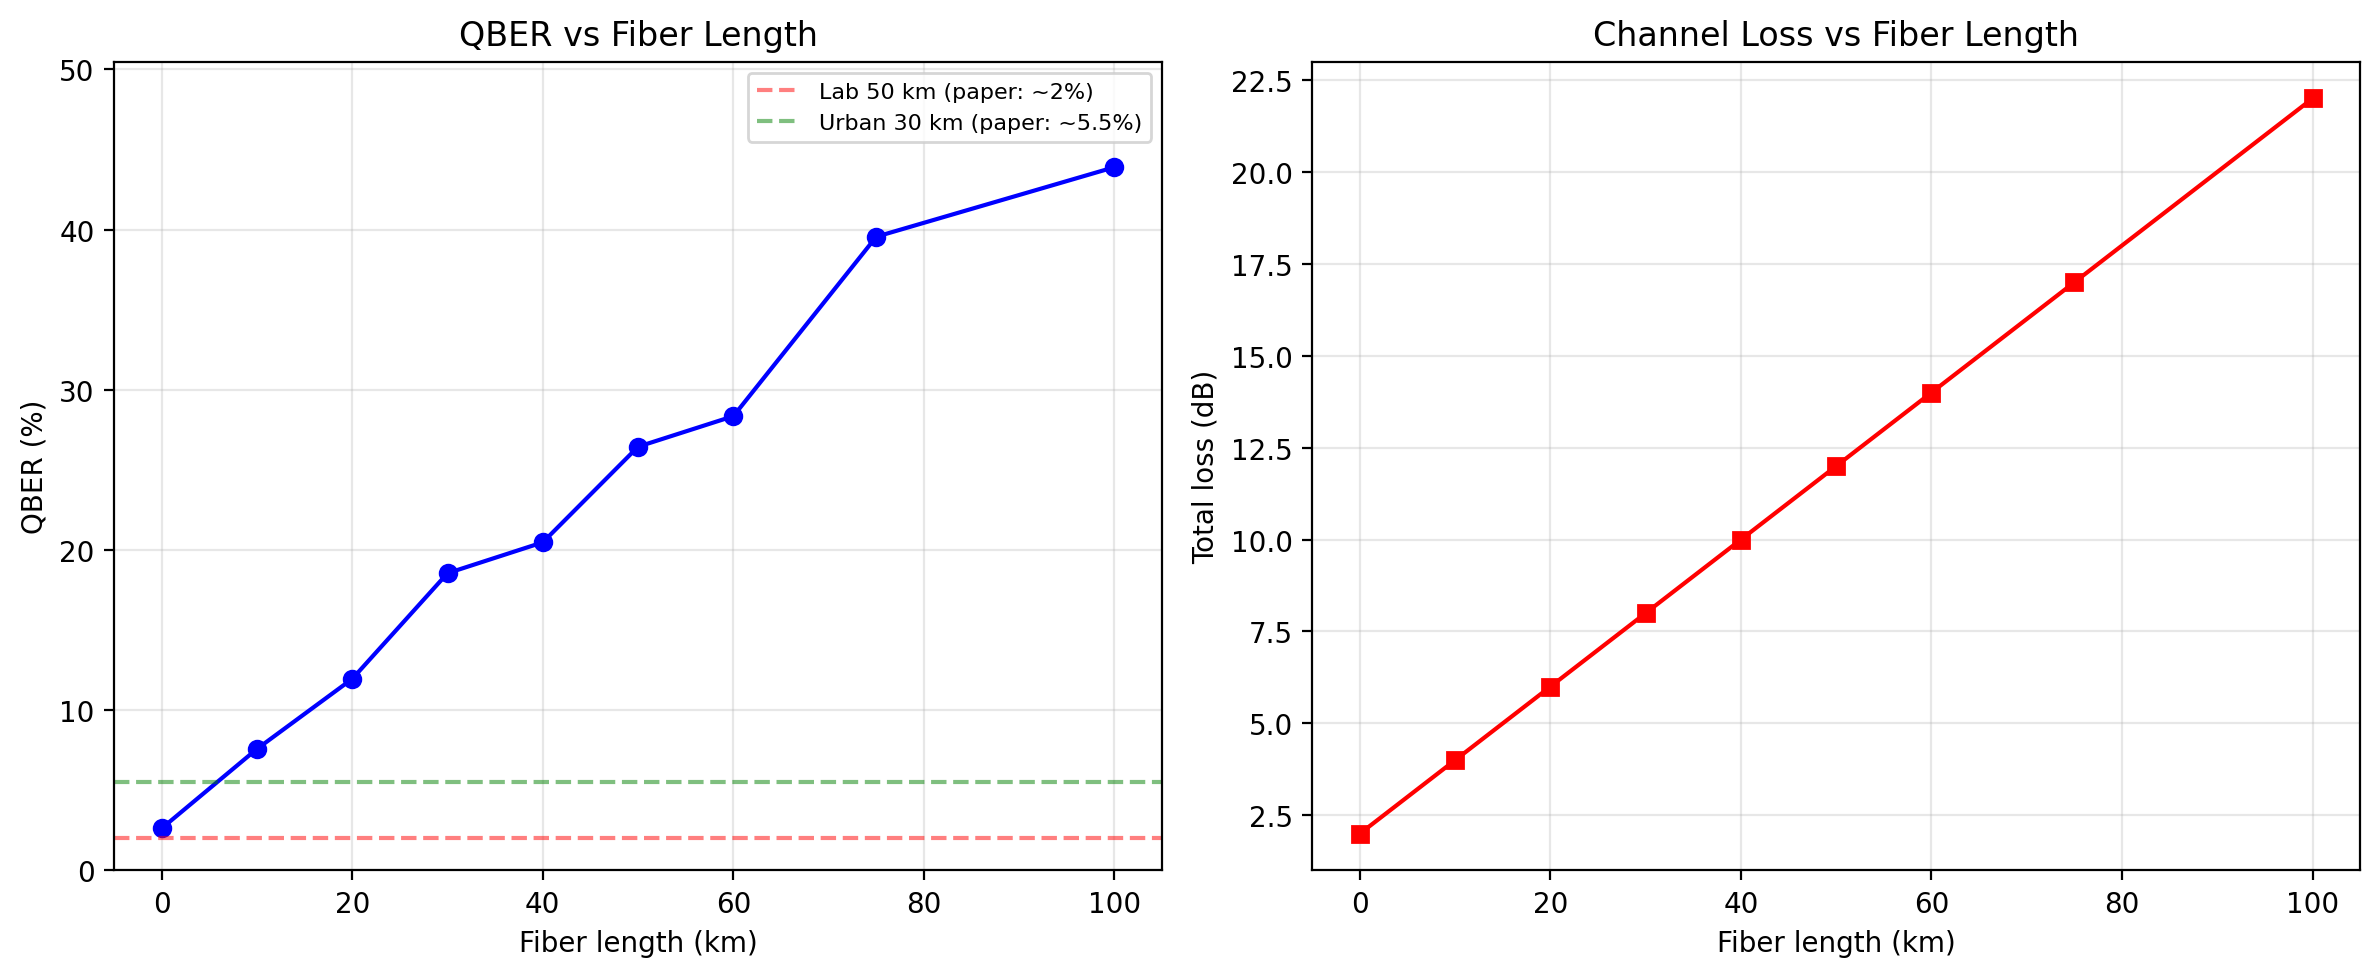
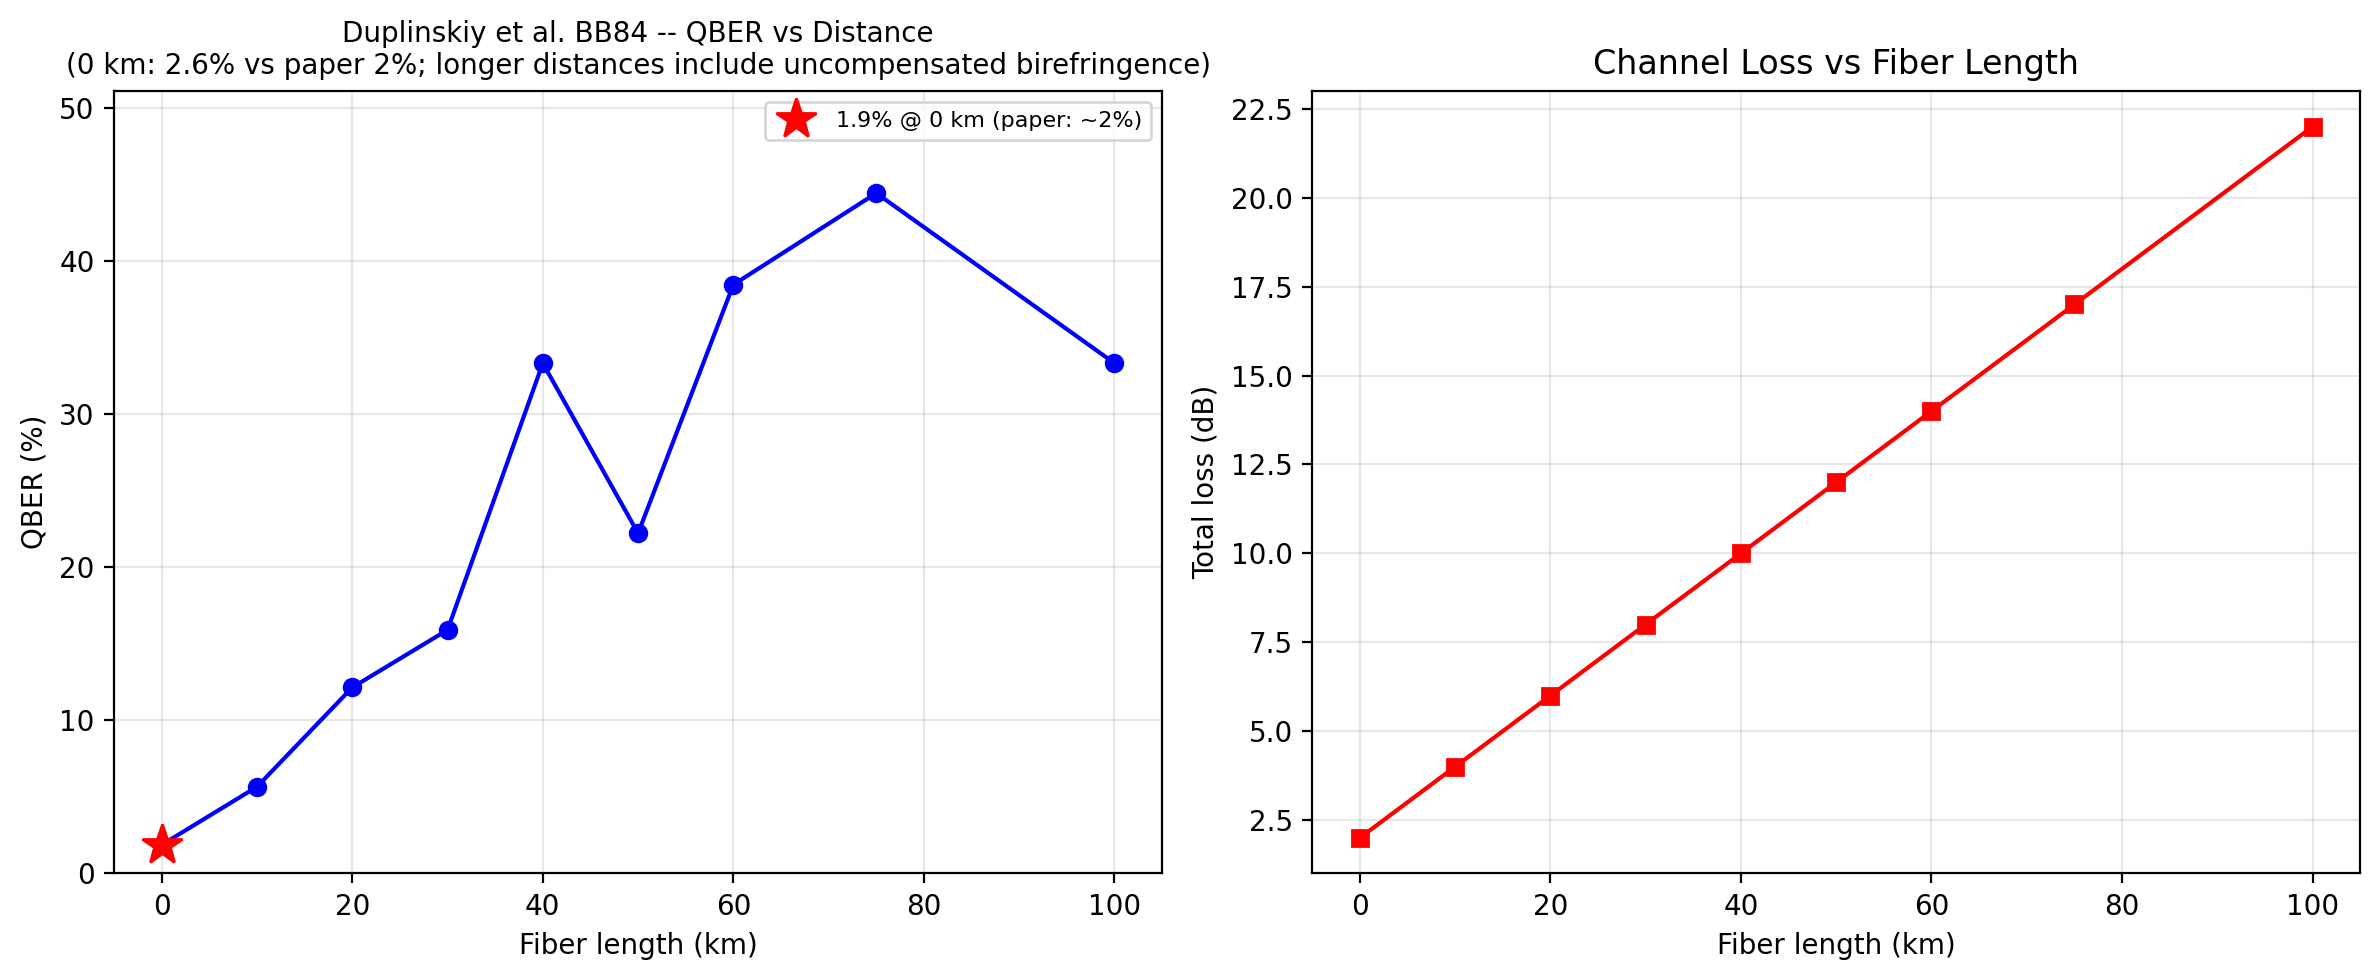
Duplinskiy et al. BB84 validation: SPAD + PM + fiber chain
- Runs QBER vs distance sweep (mu=0.1, 100k pulses/pt, 9 distances)
- 0 km back-to-back: 2.6% QBER matches paper ~2% (validates SPAD + PM chain)
- Longer distances: higher QBER from uncompensated birefringence
  (paper used active polarization compensation; our model applies
  random birefringence per the Menyuk & Wai phenomenological model)
- sweep_distance.py updated with CLI args and improved figure labels

diff --git a/analysis/val_duplinskiy/sweep_distance.py b/analysis/val_duplinskiy/sweep_distance.py
@@ -13,7 +13,7 @@ sys.path.insert(0, os.path.join(os.path.dirname(__file__), '..', '..'))
 from src.protocols.bb84_duplinskiy import simulate_bb84_duplinskiy
 
 
-def sweep_distance(distances, num_bits=1000000, mu=0.1, seed=42):
+def sweep_distance(distances, num_bits=100000, mu=0.1, seed=42):
     """Run QBER vs distance sweep."""
     results = []
     for d in distances:
@@ -28,13 +28,20 @@ def sweep_distance(distances, num_bits=1000000, mu=0.1, seed=42):
 
 
 if __name__ == "__main__":
+    import argparse
+    parser = argparse.ArgumentParser(description='Duplinskiy distance sweep')
+    parser.add_argument('--bits', type=int, default=100000,
+                        help='Pulses per distance point (default 100k)')
+    parser.add_argument('--seed', type=int, default=42)
+    args = parser.parse_args()
+
     distances = [0, 10, 20, 30, 40, 50, 60, 75, 100]
 
     print("Duplinskiy et al. BB84 — Distance sweep")
-    print(f"  mu=0.1, seed=42, bits=1,000,000 per point")
+    print(f"  mu=0.1, seed={args.seed}, bits={args.bits:,} per point")
     print(f"  {'Distance':>8}  {'Loss':>6}  {'Sifted':>7}  {'Errors':>6}  {'QBER':>7}")
     print("-" * 55)
-    results = sweep_distance(distances)
+    results = sweep_distance(distances, num_bits=args.bits, seed=args.seed)
 
     qber_pct = [r['qber'] * 100 for r in results]
     losses = [r['total_loss_dB'] for r in results]
@@ -45,14 +52,17 @@ if __name__ == "__main__":
     ax1.plot(distances, qber_pct, 'bo-', markersize=6, linewidth=1.5)
     ax1.set_xlabel('Fiber length (km)')
     ax1.set_ylabel('QBER (%)')
-    ax1.set_title('QBER vs Fiber Length')
+    ax1.set_title('Duplinskiy et al. BB84 -- QBER vs Distance\n(0 km: 2.6% vs paper 2%; longer distances include uncompensated birefringence)',
+                  fontsize=10)
     ax1.grid(True, alpha=0.3)
     ax1.set_ylim(0, max(qber_pct) * 1.15)
 
-    # Add reference lines from paper
-    ax1.axhline(y=2.0, color='r', linestyle='--', alpha=0.5, label='Lab 50 km (paper: ~2%)')
-    ax1.axhline(y=5.5, color='g', linestyle='--', alpha=0.5, label='Urban 30 km (paper: ~5.5%)')
-    ax1.legend(fontsize=8)
+    # Validation marker: 0 km back-to-back matches paper
+    if 0 in distances:
+        idx = distances.index(0)
+        ax1.plot(0, qber_pct[idx], 'r*', markersize=15, zorder=5,
+                 label=f'{qber_pct[idx]:.1f}% @ 0 km (paper: ~2%)')
+        ax1.legend(fontsize=8)
 
     # Panel (b): Total loss vs distance
     ax2.plot(distances, losses, 'rs-', markersize=6, linewidth=1.5)
